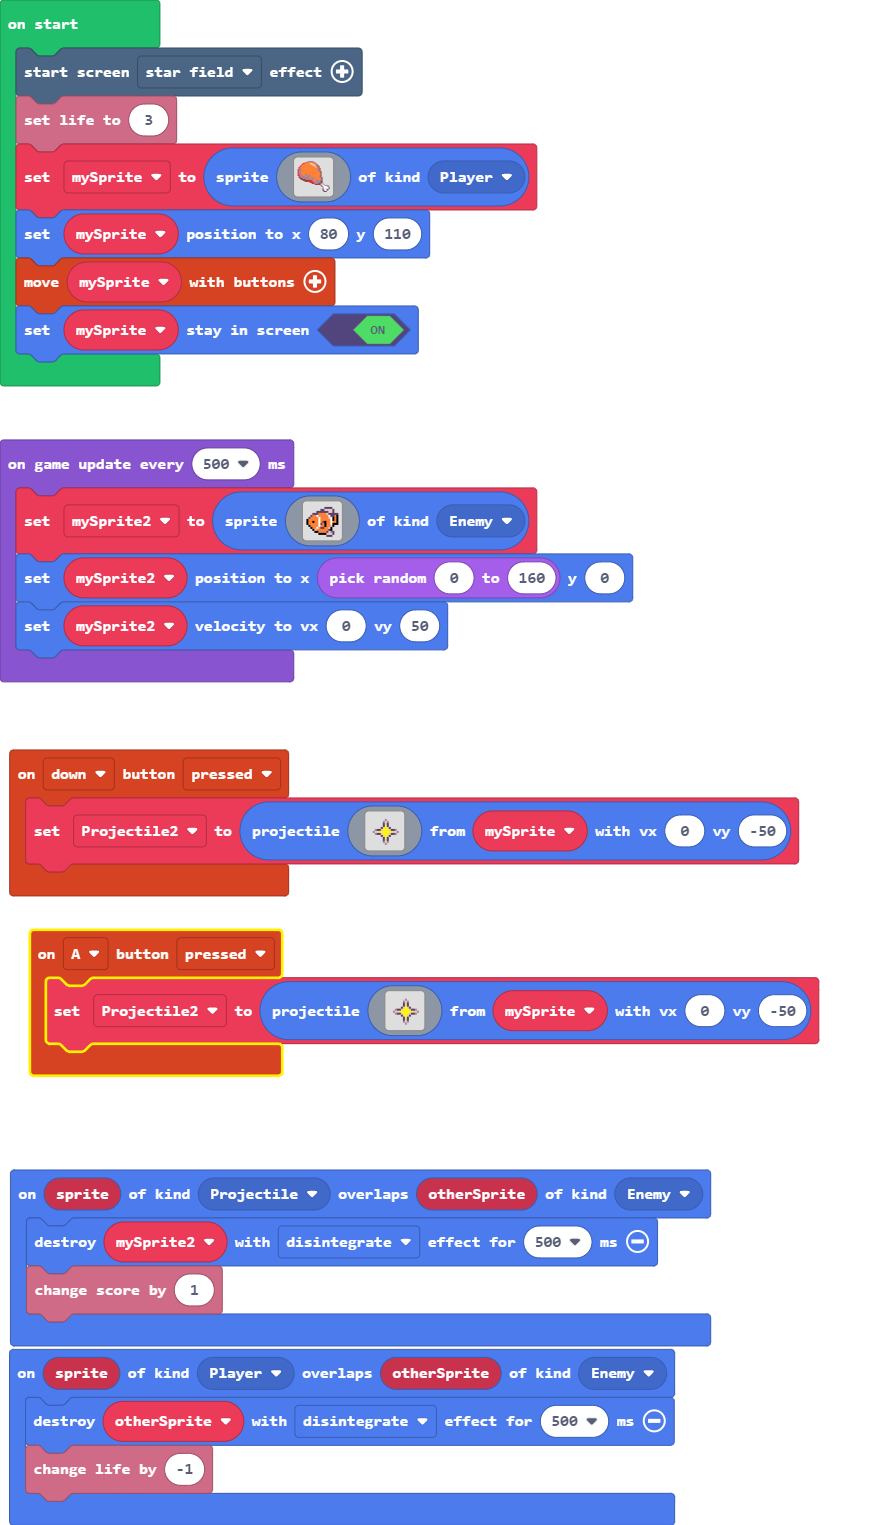
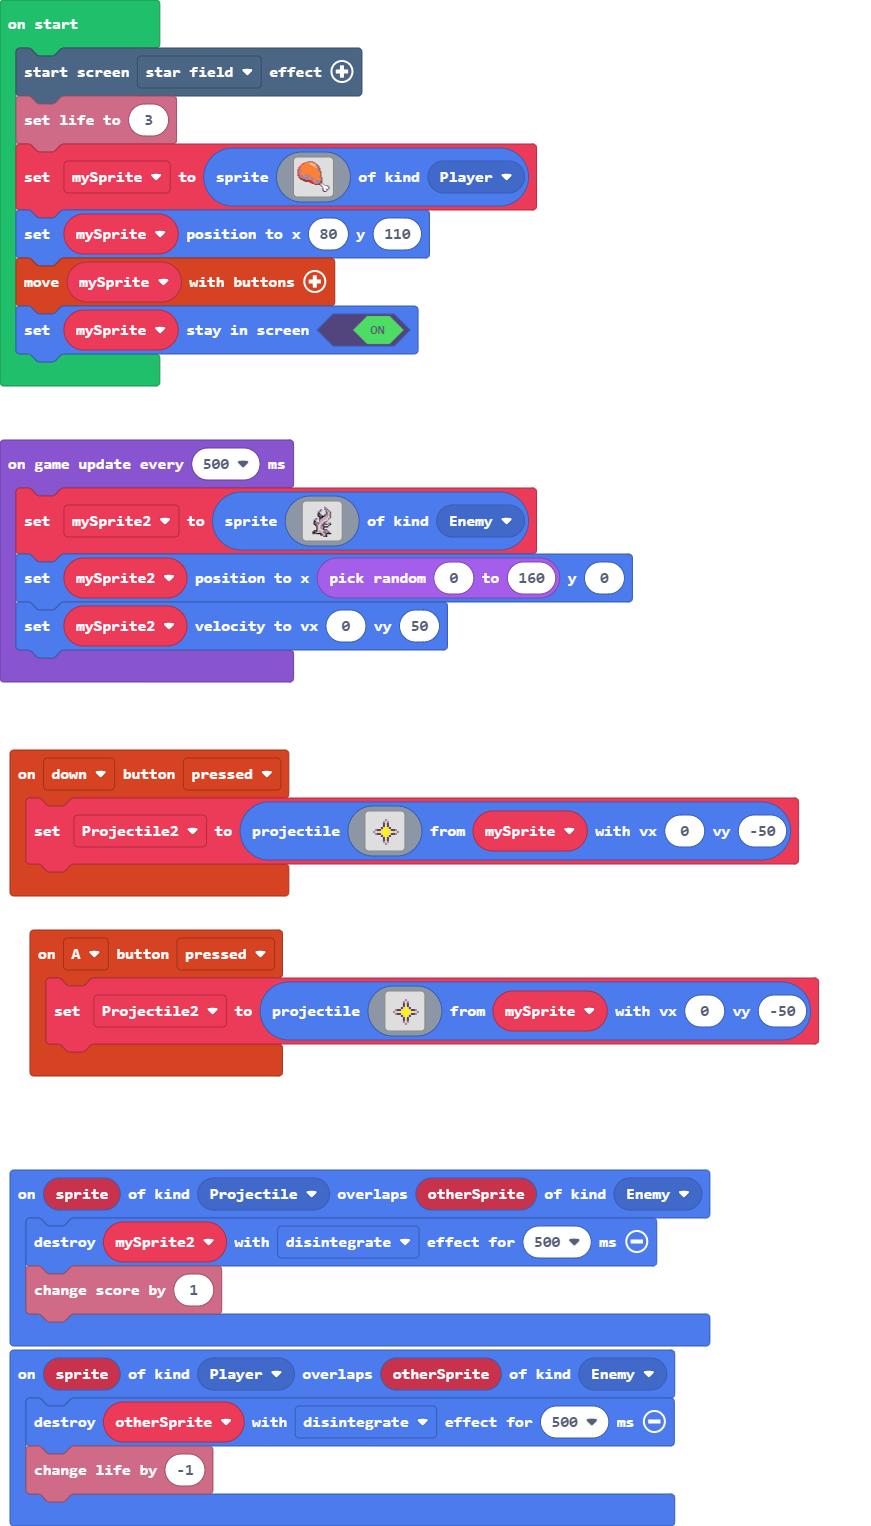
Update pxt.json, main.blocks, main.ts, tilemap.g.jres, tilemap.g.ts

diff --git a/main.ts b/main.ts
@@ -90,22 +90,30 @@ controller.moveSprite(mySprite)
 mySprite.setStayInScreen(true)
 game.onUpdateInterval(500, function () {
     mySprite2 = sprites.create(img`
-        . . . . . . . . . . . . . . . . 
-        . . . . . . . . . c c c c . . . 
-        . . . . . . . c c d d d d c . . 
-        . . . . . c c c c c c d d c . . 
-        . . . c c c 4 4 4 4 d c c c c c 
-        . . c 4 4 1 4 4 4 4 4 1 c c 4 f 
-        . c 4 4 4 4 1 4 4 4 4 d 1 f 4 f 
-        f 4 4 4 4 4 1 4 4 4 4 4 1 f 4 f 
-        f 4 4 f 4 4 1 4 c f 4 4 1 4 4 f 
-        f 4 4 4 4 4 1 c 4 f 4 4 1 f f f 
-        . f 4 4 4 4 1 4 4 f 4 4 d f . . 
-        . . f 4 4 1 4 c c 4 4 d f . . . 
-        . . . f d 4 4 4 4 4 4 c f . . . 
-        . . . . f f 4 4 4 4 c d b c . . 
-        . . . . . . f f f f d d d c . . 
-        . . . . . . . . . . c c c . . . 
+        ................
+        ..........b.....
+        ..........cb....
+        .......c..cbc...
+        ......cc...cdc..
+        .....cb....cbdc.
+        .....fc....cbdc.
+        .....fcc..ccbdc.
+        .....fccffcdbdc.
+        ......fffddbddc.
+        ...cc.fcdbbddc..
+        ..cb..cdbdddb...
+        ..fc..bbddbc....
+        ..fbccbddcc..bb.
+        ..fcbbddccccbbf.
+        ...fcddbccdddf..
+        ....fddbbffff...
+        ....fddbbf......
+        ....fdddbccc....
+        ..fffdbddbbbc...
+        .ffbbdbbdccbbf..
+        .fccffffddccfff.
+        .......ffddf....
+        .........ccf....
         `, SpriteKind.Enemy)
     mySprite2.setPosition(randint(0, 160), 0)
     mySprite2.setVelocity(0, 50)

diff --git a/tilemap.g.ts b/tilemap.g.ts
@@ -1,0 +1,14 @@
+// Auto-generated code. Do not edit.
+namespace myTiles {
+    //% fixedInstance jres blockIdentity=images._tile
+    export const transparency16 = image.ofBuffer(hex``);
+
+    helpers._registerFactory("tile", function(name: string) {
+        switch(helpers.stringTrim(name)) {
+            case "transparency16":return transparency16;
+        }
+        return null;
+    })
+
+}
+// Auto-generated code. Do not edit.
